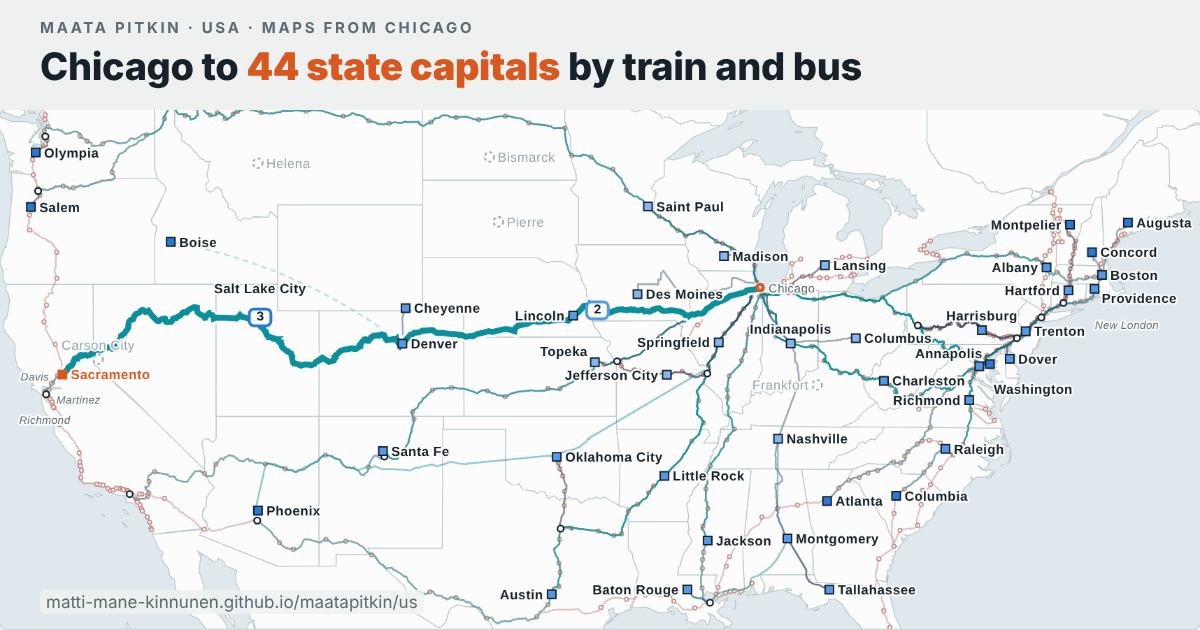
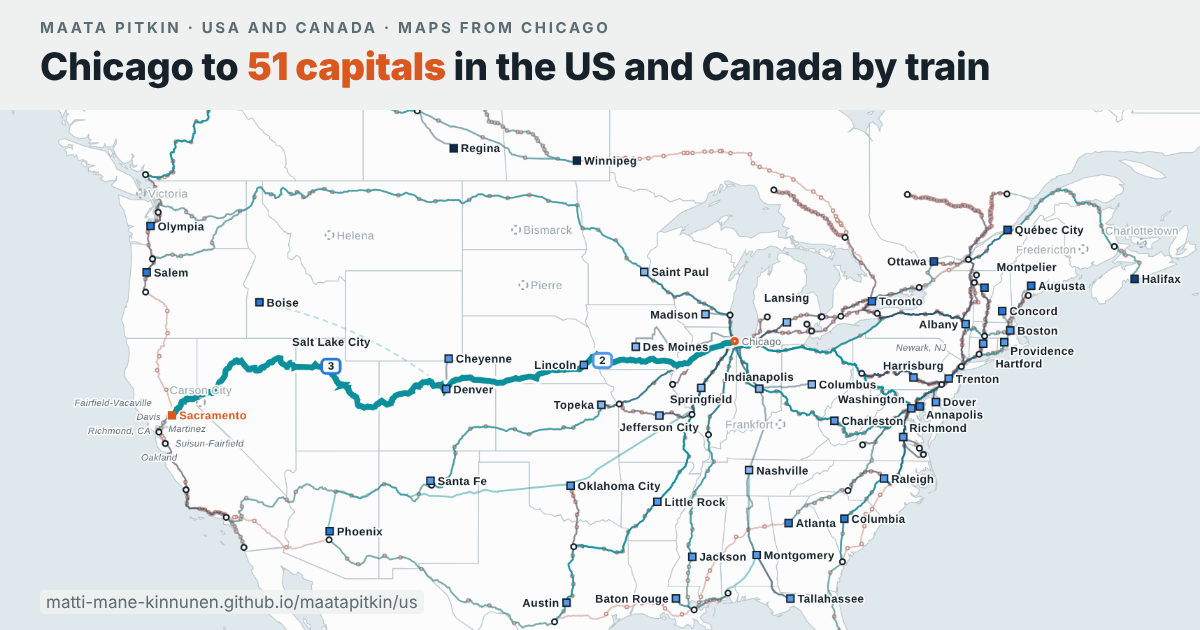
IDEA-25: Canada - VIA Rail's GTFS as a third feed; Ottawa and the provincial capitals as capitals
- gtfs_import.py: VIA feed (Toronto time, read through each place's tz), service names
  (VIA 1 The Canadian, VIA 14 Ocean), VIA legs need a Canadian end; rail layer and station
  dots from Amtrak and VIA; province abbreviations for station labels
- places.yaml: Ottawa, Toronto, Quebec City, Winnipeg, Edmonton, Halifax (VIA), Regina (Flix)
  as capitals; 13 more Canadian places; via: codes for New York, Albany, Niagara Falls,
  Montreal, Vancouver; Victoria, Fredericton, Charlottetown, St. John's, territories not covered
- texts, guide and footer: US and Canada, VIA Rail, Open Government Licence - Canada credit
- basemap to lat 60 / lon -57; preview picture: 51 capitals
- workflow downloads viarail.zip
Checked: Chicago map built locally - 51 capitals; check_pages OK (152 journeys); 103 tests.

Claude-Session: https://claude.ai/code/session_01ENaFA7ZRS795aPSaarCC7Z

diff --git a/data/us/guide/en.html b/data/us/guide/en.html
@@ -1,7 +1,7 @@
     <h2 id="guide-h">User guide</h2>
-    <p>This map shows how far you get from __ORIGIN__ by train and bus – to the 50 US state capitals and Washington, DC,
-    door to door. It is meant to show that it can be done and roughly how long it takes, not to replace a journey
-    planner: check the times and book with Amtrak and the bus companies.</p>
+    <p>This map shows how far you get from __ORIGIN__ by train and bus – to the 50 US state capitals, Washington, DC,
+    and Canada's capitals – Ottawa and the provincial capitals – door to door. It is meant to show that it can be done and roughly how long it takes, not to replace a journey
+    planner: check the times and book with Amtrak, VIA Rail and the bus companies.</p>
     <h3>Pick a destination</h3>
     <ul>
       <li>The list below the map shows the capitals in order of arrival, with the door-to-door time.
@@ -10,9 +10,10 @@
       <li>The journey's timetable appears beside the map (below it on narrow screens), day by day: every train and bus,
       the changes, and where you stay overnight. On the map, numbered marks show where each day begins and a bed shows
       a hotel night.</li>
-      <li>Seven capitals have no journey yet: Juneau and Honolulu (no train or bus), and Frankfort, Carson City, Helena,
-      Bismarck and Pierre, which neither Amtrak nor Greyhound / FlixBus serves. Other bus companies do, but their
-      timetables are not in the data yet.</li>
+      <li>Some capitals have no journey yet: Juneau and Honolulu (no train or bus); Frankfort, Carson City, Helena,
+      Bismarck and Pierre, which neither Amtrak nor Greyhound / FlixBus serves (other bus companies do, but their
+      timetables are not in the data yet); and in Canada Victoria, Fredericton, Charlottetown, St. John's and the three
+      territorial capitals, which VIA Rail does not reach. Regina is reached by bus.</li>
     </ul>
     <h3>Choose how you travel</h3>
     <ul>
@@ -26,7 +27,7 @@
       long-distance trains do, with seats and sleeping cars; <i>avoid</i> travels by day only, so long journeys take many
       hotel nights.</li>
       <li><b>Arrive by</b>, above the list, shows only the places you reach by that day; <b>No hotel nights</b> only journeys
-      without one; <b>Include other cities</b> adds the hubs and the ends of Amtrak's lines (San Diego, Toronto, Miami …).</li>
+      without one; <b>Include other cities</b> adds the hubs and the ends of the lines (San Diego, Miami, Churchill, Prince Rupert …).</li>
     </ul>
     <h3>Read a journey</h3>
     <ul>
@@ -41,8 +42,8 @@
       the electrified Northeast Corridor run on diesel.</li>
       <li><b>Copy link</b> gives a link to exactly this journey and these choices – to share or save.</li>
       <li>Under each stretch of train travel, <b>Book … on amtrak.com</b> opens Amtrak's site with the station codes and
-      the departure to type in – Amtrak has no link that fills them in. Buses have no link; book them with
-      Greyhound or FlixBus.</li>
+      the departure to type in – Amtrak has no link that fills them in. VIA Rail's trains and the buses have
+      no link; book them on viarail.ca and with Greyhound or FlixBus.</li>
       <li><b>Add to calendar</b> downloads the journey as a calendar file (.ics) – every train, bus and hotel night at
       its local time. It is made in your browser; nothing is sent anywhere.</li>
       <li><b>Report a problem</b> beside a train opens a new GitHub issue with that train already filled in (you need a
@@ -62,9 +63,11 @@
       <li><b>Maps from</b> at the top opens the same map for other starting cities; <b>Other maps</b> the European maps.</li>
     </ul>
     <h3>Where the times come from</h3>
-    <p>The timetables are Amtrak's and FlixBus / Greyhound's own open data (GTFS), downloaded and imported every week;
+    <p>The timetables are Amtrak's, VIA Rail's and FlixBus / Greyhound's own open data (GTFS), downloaded and imported
+    every week (VIA Rail's: contains information licensed under the <a href="https://open.canada.ca/en/open-government-licence-canada"
+    target="_blank" rel="noopener">Open Government Licence – Canada</a>);
     other bus companies are not included yet. Journeys are worked out for the travel days shown, with time for every
-    change – the settings are in the text just above. The CO₂ figures for trains are the US EPA's, for buses and
+    change – the settings are in the text just above. The CO₂ figures for trains are the US EPA's (VIA Rail's diesel trains get the same figure), for buses and
     flights the same Swedish figures as on the European maps. Map outlines: <a href="https://www.naturalearthdata.com"
     target="_blank" rel="noopener">Natural Earth</a>. The page counts visits with <a href="https://www.goatcounter.com"
     target="_blank" rel="noopener">GoatCounter</a>: no cookies and no personal data, and not at all if your browser

diff --git a/gtfs_import.py b/gtfs_import.py
@@ -59,6 +59,12 @@ FEEDS = [
      "skip_routes": set()},
     {"name": "flix", "path": FEEDS_DIR / "gtfs_generic_us", "key": "flix", "clock_tz": "place",
      "skip_agencies": set(), "skip_routes": set()},
+    # VIA Rail Canada (Open Government Licence - Canada): times in Toronto time, the agency's zone, as GTFS says
+    # (checked against The Canadian's timetable at Sioux Lookout, Winnipeg, Edmonton). AC is the Montreal airport
+    # shuttle bus. Toronto - New York (the Maple Leaf) is in Amtrak's feed too, but there Amtrak sells no ride into
+    # Toronto (pickup/drop-off 1), so it comes from VIA - only legs with a Canadian end, the US part is Amtrak's.
+    {"name": "via", "path": FEEDS_DIR / "viarail", "key": "via", "clock_tz": "place",
+     "skip_agencies": set(), "skip_routes": {"AC"}, "needs_country": "CA"},
 ]
 
 
@@ -215,6 +221,10 @@ def service_name(feed: str, route: dict, trip: dict) -> str:
             name = "Amtrak Thruway"
         num = (trip.get("trip_short_name") or "").strip()
         return f"{name} {num}".strip()
+    if feed == "via":
+        num = (trip.get("trip_short_name") or "").strip()
+        named = {"1": "The Canadian", "2": "The Canadian", "14": "Ocean", "15": "Ocean"}.get(num)
+        return f"VIA {num}" + (f" {named}" if named else "")
     return route.get("route_short_name") or route.get("route_long_name") or feed
 
 
@@ -267,6 +277,9 @@ def import_feed(cfg: dict, places: dict, first: dt.date, last: dt.date, report: 
             for b in sts[i + 1:]:
                 pb = stops[b["stop_id"]]
                 if pb == pa or b.get("drop_off_type") == "1":
+                    continue
+                need = cfg.get("needs_country")
+                if need and need not in (places[pa].get("country"), places[pb].get("country")):
                     continue
                 dep_s, arr_s = gtfs_secs(a["departure_time"]), gtfs_secs(b["arrival_time"])
                 cand = (arr_s - dep_s, arr_s, a["stop_id"], b["stop_id"], dep_s)
@@ -432,7 +445,8 @@ ABBR = {"Alabama": "AL", "Arizona": "AZ", "Arkansas": "AR", "California": "CA", 
         "North Carolina": "NC", "North Dakota": "ND", "Ohio": "OH", "Oklahoma": "OK", "Oregon": "OR", "Pennsylvania": "PA",
         "Rhode Island": "RI", "South Carolina": "SC", "South Dakota": "SD", "Tennessee": "TN", "Texas": "TX", "Utah": "UT",
         "Vermont": "VT", "Virginia": "VA", "Washington": "WA", "West Virginia": "WV", "Wisconsin": "WI", "Wyoming": "WY",
-        "British Columbia": "BC", "Ontario": "ON", "Québec": "QC", "Manitoba": "MB", "Alberta": "AB"}
+        "British Columbia": "BC", "Ontario": "ON", "Québec": "QC", "Manitoba": "MB", "Alberta": "AB", "Saskatchewan": "SK",
+        "New Brunswick": "NB", "Nova Scotia": "NS", "Prince Edward Island": "PE", "Newfoundland and Labrador": "NL"}
 
 
 # stations right on a state line, where the simplified outlines give the wrong side (Amtrak stop_id -> state)
@@ -495,19 +509,39 @@ def map_layers(places: dict, report: dict, feeds=FEEDS, tol: float = 0.01, basem
             if len(part) >= 2:
                 out["geom"][f"{pa}>{pb}"] = r3(simplify(part, tol))
                 break
-    # the whole Amtrak train network
-    am = Feed(by_feed["amtrak"]["path"])
-    routes = {r["route_id"]: r for r in am.rows("routes.txt")
-              if r["route_type"] == "2" and r.get("agency_id") not in by_feed["amtrak"]["skip_agencies"]}
-    trips = {t["trip_id"]: t for t in am.rows("trips.txt") if t["route_id"] in routes}
-    sids = {t["shape_id"] for t in trips.values() if t.get("shape_id")}
+    # the whole train network (Amtrak, VIA Rail) and its stations, from every feed that has trains
     grid = lambda p: (round(p[0] * 100), round(p[1] * 100))
     edges: set = set()
-    for pts in read_shapes(am, sids).values():
-        g = [grid(p) for p in pts]
-        g = [q for k, q in enumerate(g) if k == 0 or q != g[k - 1]]
-        for u, v in zip(g, g[1:]):
-            edges.add((u, v) if u < v else (v, u))
+    calls = defaultdict(int)
+    stn_rows = []
+    for fname in ("amtrak", "via"):
+        if fname not in by_feed or not Feed(by_feed[fname]["path"]).has("stop_times.txt"):
+            continue
+        cfg = by_feed[fname]
+        fd = Feed(cfg["path"])
+        routes = {r["route_id"]: r for r in fd.rows("routes.txt")
+                  if r["route_type"] == "2" and r.get("agency_id", "") not in cfg["skip_agencies"]
+                  and r["route_id"] not in cfg["skip_routes"]}
+        trips = {t["trip_id"]: t for t in fd.rows("trips.txt") if t["route_id"] in routes}
+        sids = {t["shape_id"] for t in trips.values() if t.get("shape_id")}
+        for pts in read_shapes(fd, sids).values():
+            g = [grid(p) for p in pts]
+            g = [q for k, q in enumerate(g) if k == 0 or q != g[k - 1]]
+            for u, v in zip(g, g[1:]):
+                edges.add((u, v) if u < v else (v, u))
+        taken = {str(c) for v in places.values() for c in v.get(cfg["key"]) or []}
+        fcalls = defaultdict(int)
+        for st in fd.rows("stop_times.txt"):
+            if st["trip_id"] in trips:
+                fcalls[st["stop_id"]] += 1
+        for s in fd.rows("stops.txt"):
+            if s["stop_id"] in fcalls and s["stop_id"] not in taken and "Border" not in s["stop_name"]:
+                name = s["stop_name"]
+                for suffix in (" Amtrak Station", " Amtrak Bus Stop", " Amtrak", " Union Station", " Station"):
+                    if name.endswith(suffix):
+                        name = name[: -len(suffix)]
+                stn_rows.append([name.strip(), round(float(s["stop_lon"]), 3), round(float(s["stop_lat"]), 3),
+                                 fcalls[s["stop_id"]], s["stop_id"] if fname == "amtrak" else f"{fname}:{s['stop_id']}"])
     adj = defaultdict(set)
     for u, v in edges:
         adj[u].add(v)
@@ -530,20 +564,7 @@ def map_layers(places: dict, report: dict, feeds=FEEDS, tol: float = 0.01, basem
             if ((u, v) if u < v else (v, u)) not in used:
                 line = walk(u, v)
                 out["rail"].append(r3(simplify([[x / 100, y / 100] for x, y in line], tol)))
-    # stations: Amtrak stops that trains call at, not already a place
-    taken = {str(c) for v in places.values() for c in v.get("amtrak") or []}
-    calls = defaultdict(int)
-    for st in am.rows("stop_times.txt"):
-        if st["trip_id"] in trips:
-            calls[st["stop_id"]] += 1
-    for s in am.rows("stops.txt"):
-        if s["stop_id"] in calls and s["stop_id"] not in taken and "Border" not in s["stop_name"]:
-            name = s["stop_name"]
-            for suffix in (" Amtrak Station", " Amtrak Bus Stop", " Amtrak", " Union Station", " Station"):
-                if name.endswith(suffix):
-                    name = name[: -len(suffix)]
-            out["stations"].append([name.strip(), round(float(s["stop_lon"]), 3), round(float(s["stop_lat"]), 3), calls[s["stop_id"]],
-                                    s["stop_id"]])
+    out["stations"] = stn_rows
     # a station whose name is also a place's (Lincoln IL / Lincoln NE) or another station's (Springfield MA /
     # Springfield VA) gets its state: "Lincoln, IL"
     taken_names = {n.lower() for n, v in places.items()} | {a.lower() for v in places.values() for a in v.get("aliases") or []}
@@ -595,7 +616,7 @@ def main(argv=None):
 
     n_dep = sum(len(set(v)) for v in entries.values())
     print(f"window {first} .. {last}: {len(entries)} legs.yaml entries, {n_dep} departures")
-    for name in ("amtrak", "flix"):
+    for name in ("amtrak", "flix", "via"):
         r = report.get(name, {})
         if "missing" in r:
             print(f"  {name}: feed not found at {r['missing']}")

diff --git a/BACKLOG.md b/BACKLOG.md
@@ -78,4 +78,4 @@ if it led to a decision, the D-number in DECISIONS.md. Purpose and scope: see D-
 | IDEA-22 | 12.11.2026 | City texts from Wikivoyage/Wikipedia, refreshed by the weekly build. | A short text (and link) for each destination and hotel-night city ("4 nights in Paris – what to do"). Fetched at build time, so visitors make no outside calls (D-56 thinking); licence CC BY-SA, credit needed; in each map's language where the wiki has it. Medium. | done 13.11.2026 (D-61): texts for all 171 places in 7 languages (median ~350 chars; en/de/it mostly Wikivoyage, fi/sv/fr often and da always Wikipedia); Wikidata items checked (15 wrong at first – stations, provinces – fixed by ranking the town first); cleaning of footnotes, pronunciations, listings, disambiguation notes; weekly refresh of a quarter; page check Hamburg + Rome OK |
 | IDEA-23 | 12.11.2026 | Live departures from Transitous in the visitor's browser (spike only). | E.g. "next real departures for this connection on your date". First check that Transitous allows browser (CORS) calls and that its usage policy accepts visitor traffic; it adds an outside dependency (D-56) and load on a free community service. Keep optional; prefer IDEA-21/22. | open |
 | IDEA-24 | 17.11.2026 | Nearby towns as a list under a place, not as places on the map. | Pisa, Siena, Cinque Terre, Bruges, Kotor… a short hop from a hub: shown in the itinerary, tooltip and search; not routed or drawn, so dense areas stay readable. | done 17.11.2026 (D-64): data/nearby.yaml, 50 towns from 35 places; times approximate, to check yearly (DATA-12) |
-| IDEA-25 | 19.11.2026 | A USA map: Chicago to the 50 state capitals and Washington DC. | Matti's experiment (18.11., timetable_kit on Amtrak's GTFS, kept outside the repo in ~/Code/amtrak-experiments) showed the data is there: 30 capitals by Amtrak train, Phoenix and Santa Fe by Amtrak Thruway bus, 18 with nothing in Amtrak's feed (Nashville, Columbus, Boise, Cheyenne …) – Greyhound/FlixBus GTFS for those. timetable_kit itself is not used: half its timetable specs fail on stale train numbers (NEC, Keystone, Silver Service) and its major-station legs miss most capitals. Plan in D-67: own GTFS importer, separate network data/us/, same build, routers and page. Large, on branch feature/usa. | in progress 19.11.2026: importer, `build.py network=us`, rail-map layers, US texts and links built (D-67). Next: weekly workflow, polish. Live 19.11.2026. Origins Chicago, New York, Seattle, New Orleans, Miami and 26 ends of Amtrak lines (incl. Vancouver, Toronto, Montreal) added 19.11. Later: Canada's passenger trains (VIA Rail, only a few routes – viarail.ca/en/explore-our-destinations/trains). |
+| IDEA-25 | 19.11.2026 | A USA map: Chicago to the 50 state capitals and Washington DC. | Matti's experiment (18.11., timetable_kit on Amtrak's GTFS, kept outside the repo in ~/Code/amtrak-experiments) showed the data is there: 30 capitals by Amtrak train, Phoenix and Santa Fe by Amtrak Thruway bus, 18 with nothing in Amtrak's feed (Nashville, Columbus, Boise, Cheyenne …) – Greyhound/FlixBus GTFS for those. timetable_kit itself is not used: half its timetable specs fail on stale train numbers (NEC, Keystone, Silver Service) and its major-station legs miss most capitals. Plan in D-67: own GTFS importer, separate network data/us/, same build, routers and page. Large, on branch feature/usa. | in progress 19.11.2026: importer, `build.py network=us`, rail-map layers, US texts and links built (D-67). Next: weekly workflow, polish. Live 19.11.2026. Origins Chicago, New York, Seattle, New Orleans, Miami and 26 ends of Amtrak lines (incl. Vancouver, Toronto, Montreal) added 19.11. Canada (VIA Rail; Ottawa and provincial capitals) 20.11. Later: Canada's passenger trains (VIA Rail, only a few routes – viarail.ca/en/explore-our-destinations/trains). |

diff --git a/DECISIONS.md b/DECISIONS.md
@@ -1517,6 +1517,18 @@ Network 59 → 85 places, 428 → 689 place pairs, departures +17 %. Mobile is C
 says New_York; its clock comes out right (Mardi Gras Service 07:35 → 11:18, as Amtrak's timetable). A network may have
 its own user guide (data/us/guide/en.html). The US job builds five maps: timeout 240 min.
 
+**Canada (Matti 20.11.2026).** VIA Rail's GTFS (viarail.zip, Open Government Licence – Canada; feed 2.11.2026–3.3.2027,
+83 trips) is the third feed: times in Toronto time as GTFS says (checked: The Canadian at Sioux Lookout, Winnipeg,
+Edmonton match the published timetable), read through each place's tz. Ottawa and the provincial capitals count as
+capitals: Toronto, Ottawa, Québec City, Winnipeg, Edmonton, Halifax by VIA, Regina by Flix/Greyhound – 51 capitals
+from Chicago; Victoria, Fredericton, Charlottetown, St. John's and the territorial capitals are not_yet_covered.
+Also Kingston, London, Windsor, Sarnia, Sudbury, White River, Jonquière, Senneterre, Moncton, Saskatoon, Jasper,
+Prince Rupert, Churchill. The Maple Leaf into Toronto comes from VIA (Amtrak's feed sells no ride into Toronto);
+VIA legs need a Canadian end (`needs_country`). Basemap extended to lat 60 / lon −57 (provinces). The credit line
+is in the footer and the guide. VIA trains have no booking link (VIA's feed has Google-style ticketing links, untested).
+Chicago → Toronto 45 h by rail (via New York); Winnipeg 126 h (via Vancouver) – buses would be faster, but
+Flix/Greyhound legs go only to places without trains.
+
 ---
 
 ## Template for a new decision
